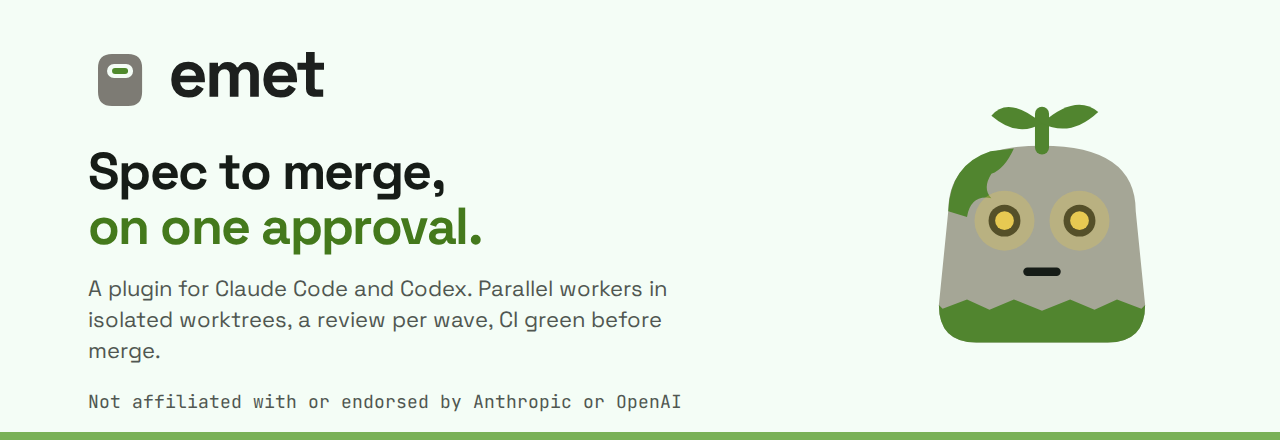
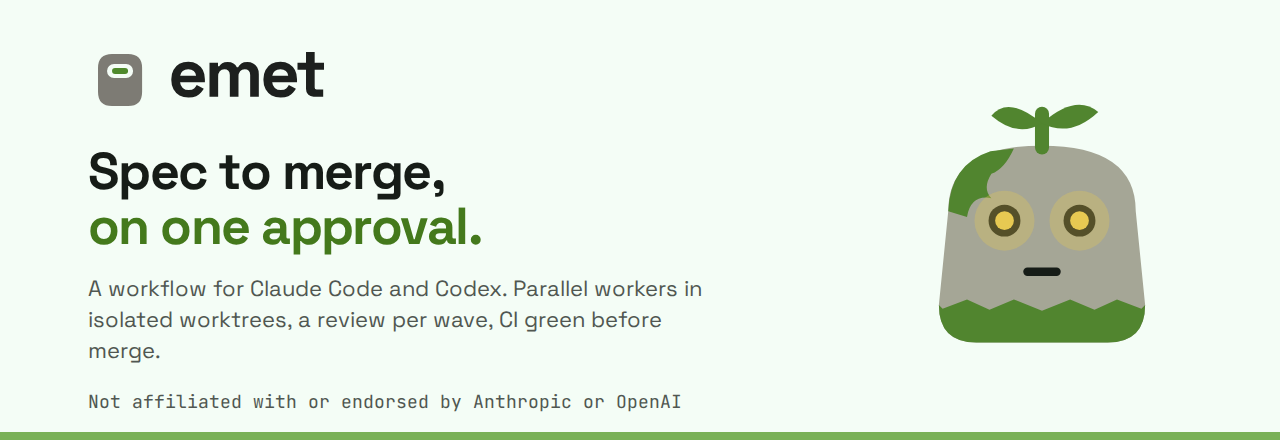
docs: 📝 use the workflow tagline in project and brand text
- Updated README, PRODUCT, llms.txt, brand voice, brief, copy and brandbook
- Updated OG sources and regenerated their PNGs, explorations and design notes
- Voice now mandates workflow for Claude Code and Codex

Refs: #1014

Changed region(s): [[0.0625, 0.6205, 0.5625, 0.6795]]

diff --git a/docs/brand/explorations/emet-logo-r2.html b/docs/brand/explorations/emet-logo-r2.html
@@ -677,7 +677,7 @@
             </div>
             <p class="rm-tag">One approval, then you come back to a merge.</p>
             <div class="rm-badges">
-              <span>plugin for Claude Code</span><span>MIT</span><span>bun</span>
+              <span>workflow for Claude Code</span><span>MIT</span><span>bun</span>
             </div>
             <pre class="rm-term">
 $ emet run
@@ -697,7 +697,7 @@ spec approved. 4 workers, 1 wave.</pre>
               <p>One approval, then you come back to a merge.</p>
             </div>
             <span class="so-foot"
-              >Plugin for Claude Code. Not affiliated with or endorsed by Anthropic.</span
+              >Workflow for Claude Code. Not affiliated with or endorsed by Anthropic.</span
             >
           </div>
         </div>
@@ -919,7 +919,7 @@ spec approved. 4 workers, 1 wave.</pre>
             </div>
             <p class="rm-tag">One approval, then you come back to a merge.</p>
             <div class="rm-badges">
-              <span>plugin for Claude Code</span><span>MIT</span><span>bun</span>
+              <span>workflow for Claude Code</span><span>MIT</span><span>bun</span>
             </div>
             <pre class="rm-term">
 $ emet run
@@ -939,7 +939,7 @@ spec approved. 4 workers, 1 wave.</pre>
               <p>One approval, then you come back to a merge.</p>
             </div>
             <span class="so-foot"
-              >Plugin for Claude Code. Not affiliated with or endorsed by Anthropic.</span
+              >Workflow for Claude Code. Not affiliated with or endorsed by Anthropic.</span
             >
           </div>
         </div>
@@ -1160,7 +1160,7 @@ spec approved. 4 workers, 1 wave.</pre>
             </div>
             <p class="rm-tag">One approval, then you come back to a merge.</p>
             <div class="rm-badges">
-              <span>plugin for Claude Code</span><span>MIT</span><span>bun</span>
+              <span>workflow for Claude Code</span><span>MIT</span><span>bun</span>
             </div>
             <pre class="rm-term">
 $ emet run
@@ -1180,7 +1180,7 @@ spec approved. 4 workers, 1 wave.</pre>
               <p>One approval, then you come back to a merge.</p>
             </div>
             <span class="so-foot"
-              >Plugin for Claude Code. Not affiliated with or endorsed by Anthropic.</span
+              >Workflow for Claude Code. Not affiliated with or endorsed by Anthropic.</span
             >
           </div>
         </div>
@@ -1400,7 +1400,7 @@ spec approved. 4 workers, 1 wave.</pre>
             </div>
             <p class="rm-tag">One approval, then you come back to a merge.</p>
             <div class="rm-badges">
-              <span>plugin for Claude Code</span><span>MIT</span><span>bun</span>
+              <span>workflow for Claude Code</span><span>MIT</span><span>bun</span>
             </div>
             <pre class="rm-term">
 $ emet run
@@ -1420,7 +1420,7 @@ spec approved. 4 workers, 1 wave.</pre>
               <p>One approval, then you come back to a merge.</p>
             </div>
             <span class="so-foot"
-              >Plugin for Claude Code. Not affiliated with or endorsed by Anthropic.</span
+              >Workflow for Claude Code. Not affiliated with or endorsed by Anthropic.</span
             >
           </div>
         </div>
@@ -1641,7 +1641,7 @@ spec approved. 4 workers, 1 wave.</pre>
             </div>
             <p class="rm-tag">One approval, then you come back to a merge.</p>
             <div class="rm-badges">
-              <span>plugin for Claude Code</span><span>MIT</span><span>bun</span>
+              <span>workflow for Claude Code</span><span>MIT</span><span>bun</span>
             </div>
             <pre class="rm-term">
 $ emet run
@@ -1661,7 +1661,7 @@ spec approved. 4 workers, 1 wave.</pre>
               <p>One approval, then you come back to a merge.</p>
             </div>
             <span class="so-foot"
-              >Plugin for Claude Code. Not affiliated with or endorsed by Anthropic.</span
+              >Workflow for Claude Code. Not affiliated with or endorsed by Anthropic.</span
             >
           </div>
         </div>

diff --git a/docs/brand/explorations/emet-palette-r2.html b/docs/brand/explorations/emet-palette-r2.html
@@ -1261,7 +1261,7 @@
               </div>
               <div class="badges">
                 <span class="bd acc">parallel agents</span><span class="bd">isolated worktrees</span
-                ><span class="bd">plugin for Claude Code</span
+                ><span class="bd">workflow for Claude Code</span
                 ><span class="bd"><i class="dot ok"></i>wave 2 merged</span>
               </div>
               <h4>Install</h4>
@@ -1306,7 +1306,7 @@
               </div>
               <div class="badges">
                 <span class="bd acc">parallel agents</span><span class="bd">isolated worktrees</span
-                ><span class="bd">plugin for Claude Code</span
+                ><span class="bd">workflow for Claude Code</span
                 ><span class="bd"><i class="dot ok"></i>wave 2 merged</span>
               </div>
               <h4>Install</h4>
@@ -2203,7 +2203,7 @@
               </div>
               <div class="badges">
                 <span class="bd acc">parallel agents</span><span class="bd">isolated worktrees</span
-                ><span class="bd">plugin for Claude Code</span
+                ><span class="bd">workflow for Claude Code</span
                 ><span class="bd"><i class="dot ok"></i>wave 2 merged</span>
               </div>
               <h4>Install</h4>
@@ -2248,7 +2248,7 @@
               </div>
               <div class="badges">
                 <span class="bd acc">parallel agents</span><span class="bd">isolated worktrees</span
-                ><span class="bd">plugin for Claude Code</span
+                ><span class="bd">workflow for Claude Code</span
                 ><span class="bd"><i class="dot ok"></i>wave 2 merged</span>
               </div>
               <h4>Install</h4>
@@ -3145,7 +3145,7 @@
               </div>
               <div class="badges">
                 <span class="bd acc">parallel agents</span><span class="bd">isolated worktrees</span
-                ><span class="bd">plugin for Claude Code</span
+                ><span class="bd">workflow for Claude Code</span
                 ><span class="bd"><i class="dot ok"></i>wave 2 merged</span>
               </div>
               <h4>Install</h4>
@@ -3190,7 +3190,7 @@
               </div>
               <div class="badges">
                 <span class="bd acc">parallel agents</span><span class="bd">isolated worktrees</span
-                ><span class="bd">plugin for Claude Code</span
+                ><span class="bd">workflow for Claude Code</span
                 ><span class="bd"><i class="dot ok"></i>wave 2 merged</span>
               </div>
               <h4>Install</h4>
@@ -4087,7 +4087,7 @@
               </div>
               <div class="badges">
                 <span class="bd acc">parallel agents</span><span class="bd">isolated worktrees</span
-                ><span class="bd">plugin for Claude Code</span
+                ><span class="bd">workflow for Claude Code</span
                 ><span class="bd"><i class="dot ok"></i>wave 2 merged</span>
               </div>
               <h4>Install</h4>
@@ -4132,7 +4132,7 @@
               </div>
               <div class="badges">
                 <span class="bd acc">parallel agents</span><span class="bd">isolated worktrees</span
-                ><span class="bd">plugin for Claude Code</span
+                ><span class="bd">workflow for Claude Code</span
                 ><span class="bd"><i class="dot ok"></i>wave 2 merged</span>
               </div>
               <h4>Install</h4>

diff --git a/docs/brand/explorations/emet-typography.html b/docs/brand/explorations/emet-typography.html
@@ -457,7 +457,7 @@
               <code>/emet:run 138</code> to start.
             </p>
             <p class="fine">
-              Plugin for Claude Code. Not affiliated with or endorsed by Anthropic.
+              Workflow for Claude Code. Not affiliated with or endorsed by Anthropic.
             </p>
           </div>
           <div class="label">Command, in the mono face</div>
@@ -604,7 +604,7 @@
               <code>/emet:run 138</code> to start.
             </p>
             <p class="fine">
-              Plugin for Claude Code. Not affiliated with or endorsed by Anthropic.
+              Workflow for Claude Code. Not affiliated with or endorsed by Anthropic.
             </p>
           </div>
           <div class="label">Command, in the mono face</div>
@@ -735,7 +735,7 @@
               <code>/emet:run 138</code> to start.
             </p>
             <p class="fine">
-              Plugin for Claude Code. Not affiliated with or endorsed by Anthropic.
+              Workflow for Claude Code. Not affiliated with or endorsed by Anthropic.
             </p>
           </div>
           <div class="label">Command, in the mono face</div>
@@ -869,7 +869,7 @@
               <code>/emet:run 138</code> to start.
             </p>
             <p class="fine">
-              Plugin for Claude Code. Not affiliated with or endorsed by Anthropic.
+              Workflow for Claude Code. Not affiliated with or endorsed by Anthropic.
             </p>
           </div>
           <div class="label">Command, in the mono face</div>

diff --git a/docs/brand/og/cover.html b/docs/brand/og/cover.html
@@ -67,7 +67,7 @@
       <img class="logo" src="../logo/lockup-horizontal-dark.svg" alt="emet" />
       <h1>Spec to merge,<br /><span>on one approval.</span></h1>
       <p>
-        A plugin for Claude Code and Codex. Parallel workers in isolated worktrees, a review per
+        A workflow for Claude Code and Codex. Parallel workers in isolated worktrees, a review per
         wave, CI green before merge.
       </p>
       <code>Not affiliated with or endorsed by Anthropic or OpenAI</code>

diff --git a/docs/brand/og/social-preview.html b/docs/brand/og/social-preview.html
@@ -67,7 +67,7 @@
       <img class="logo" src="../logo/lockup-horizontal-dark.svg" alt="emet" />
       <h1>Spec to merge,<br /><span>on one approval.</span></h1>
       <p>
-        A plugin for Claude Code and Codex. Parallel workers in isolated worktrees, a review per
+        A workflow for Claude Code and Codex. Parallel workers in isolated worktrees, a review per
         wave, CI green before merge.
       </p>
       <code>Not affiliated with or endorsed by Anthropic or OpenAI</code>

diff --git a/docs/brand/og/cover-light.html b/docs/brand/og/cover-light.html
@@ -67,7 +67,7 @@
       <img class="logo" src="../logo/lockup-horizontal.svg" alt="emet" />
       <h1>Spec to merge,<br /><span>on one approval.</span></h1>
       <p>
-        A plugin for Claude Code and Codex. Parallel workers in isolated worktrees, a review per
+        A workflow for Claude Code and Codex. Parallel workers in isolated worktrees, a review per
         wave, CI green before merge.
       </p>
       <code>Not affiliated with or endorsed by Anthropic or OpenAI</code>

diff --git a/docs/brand/og/social-preview-light.html b/docs/brand/og/social-preview-light.html
@@ -67,7 +67,7 @@
       <img class="logo" src="../logo/lockup-horizontal.svg" alt="emet" />
       <h1>Spec to merge,<br /><span>on one approval.</span></h1>
       <p>
-        A plugin for Claude Code and Codex. Parallel workers in isolated worktrees, a review per
+        A workflow for Claude Code and Codex. Parallel workers in isolated worktrees, a review per
         wave, CI green before merge.
       </p>
       <code>Not affiliated with or endorsed by Anthropic or OpenAI</code>

diff --git a/docs/brand/brandbook/index.html b/docs/brand/brandbook/index.html
@@ -839,7 +839,7 @@
           <div class="panel">
             <h4>Relation to Anthropic</h4>
             <p>
-              Say "plugin for Claude Code and Codex" descriptively. Always carry:
+              Say "workflow for Claude Code and Codex" descriptively. Always carry:
               <em>Not affiliated with or endorsed by Anthropic or OpenAI</em>
             </p>
           </div>

diff --git a/apps/site/design/run-notes.md b/apps/site/design/run-notes.md
@@ -6,7 +6,7 @@ Terms: the Website is the public site (home page and docs). Landing is how a wav
 
 ## 1. Brief and subject inventory
 
-- Subject: emet, a plugin for Claude Code. One approval, then parallel workers in isolated worktrees, a review per wave, CI green before merge, nothing merges when flagged.
+- Subject: emet, a workflow for Claude Code. One approval, then parallel workers in isolated worktrees, a review per wave, CI green before merge, nothing merges when flagged.
 - Audience: developers who use Claude Code every day. Secondary: open source maintainers.
 - The one thing to do: install the plugin.
 - Brand (fixed, so `--keep palette,type`): P2 Moss tokens in `docs/brand/tokens.css`, Space Grotesk for text, JetBrains Mono for code only, the COMBO mascot, logo concept 04. Voice: sober and precise, dry humour only in the mascot and terminal lines.
@@ -25,7 +25,7 @@ What belongs to emet and to no competitor:
 
 ## 2. Argument
 
-1. It is a plugin for Claude Code that takes a feature from idea to merged change, on one approval. Proof: the name, tagline and a working wave.
+1. It is a workflow for Claude Code that takes a feature from idea to merged change, on one approval. Proof: the name, tagline and a working wave.
 2. You install it, describe the feature and approve once. Proof: the three exchanges, real banner, spec and tickets, status.
 3. One flag holds the wave and nothing merges. Proof: the working control, blown up.
 4. A run guards six things. Proof: one tall run report with six notes.
@@ -70,7 +70,7 @@ Rule: minimum words, because people do not read. No paragraph over two short lin
 
 Sample content is real, from the Website run (spec #252, wave 2 tickets #254 to #256, PR #266). Real strings come from `docs/brand/copy.md`, `docs/brand/terminal/banner.txt` and `emet status --help`.
 
-- Hero h1: Spec to merge, / on one approval. (two authored lines, centred). Sentence: A plugin for Claude Code. Idea to merged change, one approval.
+- Hero h1: Spec to merge, / on one approval. (two authored lines, centred). Sentence: A workflow for Claude Code. Idea to merged change, one approval.
 - Primary action: Install emet. Text link: Read the docs.
 - Nav over the picture: wordmark, Docs, What's new, GitHub, language.
 - How it works, h2: From idea to merge. No lead. Exchange lines: Install. / Describe it. / Watch it land.
@@ -78,7 +78,7 @@ Sample content is real, from the Website run (spec #252, wave 2 tickets #254 to 
 - Features, h2: What a run guards. Six notes: the claim title plus one short line (Spec and tickets, reviewed once. / One git worktree per worker. / A reviewer checks every wave. / A flag holds the whole wave. / Failing checks get a few fixes, then wait for you. / Linear, GitHub Issues or local files.)
 - About, h2: Why it is called emet. Two lines (Hebrew for truth. A golem is clay brought to life by that word. / Erase one letter and it stops. Here, nothing merges when something is flagged.), signed AndryOre, Maintainer. A proposal for the maintainer to approve.
 - Close, h2: Try it in one repo. A button, no sentence.
-- Footer: Plugin for Claude Code. Not affiliated with or endorsed by Anthropic. Docs, What's new, GitHub. 2026, MIT. Paintings generated with AI from prompts by the maintainer.
+- Footer: Workflow for Claude Code. Not affiliated with or endorsed by Anthropic. Docs, What's new, GitHub. 2026, MIT. Paintings generated with AI from prompts by the maintainer.
 - 404, h1: This page wandered off. Text: That address does not exist, or the page moved. Start from the home page or the docs.
 
 ## 6. Motion plan

diff --git a/apps/site/design/direction-sheet.md b/apps/site/design/direction-sheet.md
@@ -3,7 +3,7 @@
 # DIRECTION SHEET — The place carries it
 
 seed 341960445 · drawn 2026-11-06 · sector dev-tool · tone quiet
-Brief: emet: a plugin for Claude Code that takes a feature from idea to merged change on one approval; parallel workers in isolated worktrees, a review per wave, nothing merges when flagged. Named for the golem word emet (truth). The mascot is a gentle clay-and-moss golem in an overgrown, solarpunk world.
+Brief: emet: a workflow for Claude Code that takes a feature from idea to merged change on one approval; parallel workers in isolated worktrees, a review per wave, nothing merges when flagged. Named for the golem word emet (truth). The mascot is a gentle clay-and-moss golem in an overgrown, solarpunk world.
 
 |             |                                                                                                                                                                                                                                                        |
 | ----------- | ------------------------------------------------------------------------------------------------------------------------------------------------------------------------------------------------------------------------------------------------------ |

diff --git a/docs/brand/voice.md b/docs/brand/voice.md
@@ -35,7 +35,7 @@ Control, sober and precise, with dry humour in small places. No hype.
 - "review" means the reviewer pass per wave.
 - "worktree" is one word, lowercase.
 - The product is written `emet` in lowercase, in prose and in the wordmark. The command is `/emet:run` on Claude Code and `$emet:run` on Codex.
-- Write "plugin for Claude Code and Codex" when naming the hosts, descriptively and never as a product name.
+- Write "workflow for Claude Code and Codex" when naming the hosts, descriptively and never as a product name.
 
 ## Language to avoid
 
@@ -52,4 +52,4 @@ Every public surface that names Claude Code or Codex carries this notice, verbat
 
 > Not affiliated with or endorsed by Anthropic or OpenAI
 
-Copy may say "plugin for Claude Code and Codex" descriptively. The name, logo, palette and mascot stay fully separate from Claude's identity: no Claude orange or clay, no spark, no Clawd likeness.
+Copy may say "workflow for Claude Code and Codex" descriptively. The name, logo, palette and mascot stay fully separate from Claude's identity: no Claude orange or clay, no spark, no Clawd likeness.

diff --git a/docs/brand/copy.md b/docs/brand/copy.md
@@ -8,7 +8,7 @@ Approved public copy. Every claim is limited to what the CLI does today and is b
 
 ## README intro
 
-emet is a plugin for Claude Code and Codex. It takes a feature from idea to merged change: interview, spec, tickets, one approval, then parallel workers implement and test in isolated worktrees. Each wave gets a review, CI must be green before merge, and nothing merges when something is flagged.
+emet is a workflow for Claude Code and Codex. It takes a feature from idea to merged change: interview, spec, tickets, one approval, then parallel workers implement and test in isolated worktrees. Each wave gets a review, CI must be green before merge, and nothing merges when something is flagged.
 
 It runs on your machine, in any git repo, with Linear, GitHub Issues or no tracker.
 
